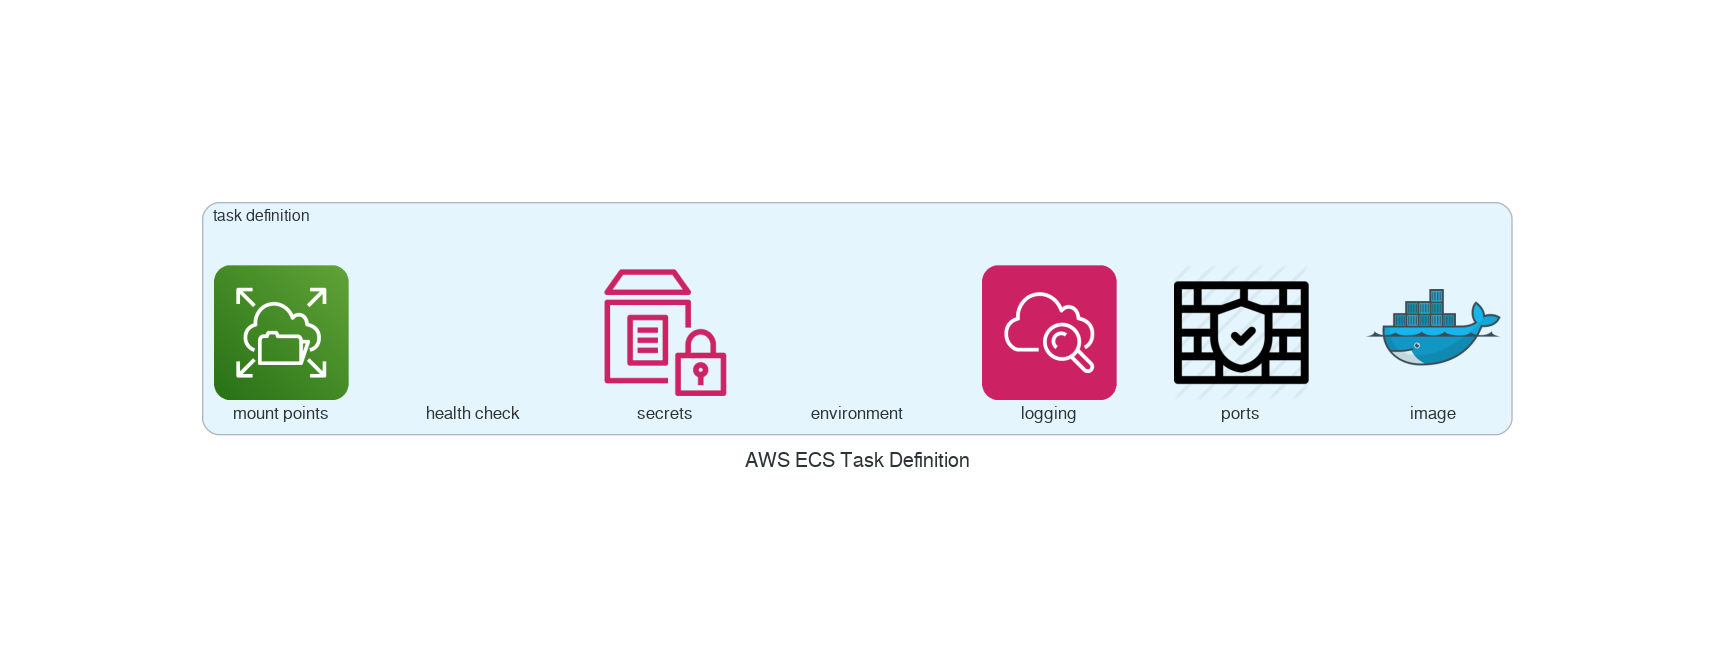
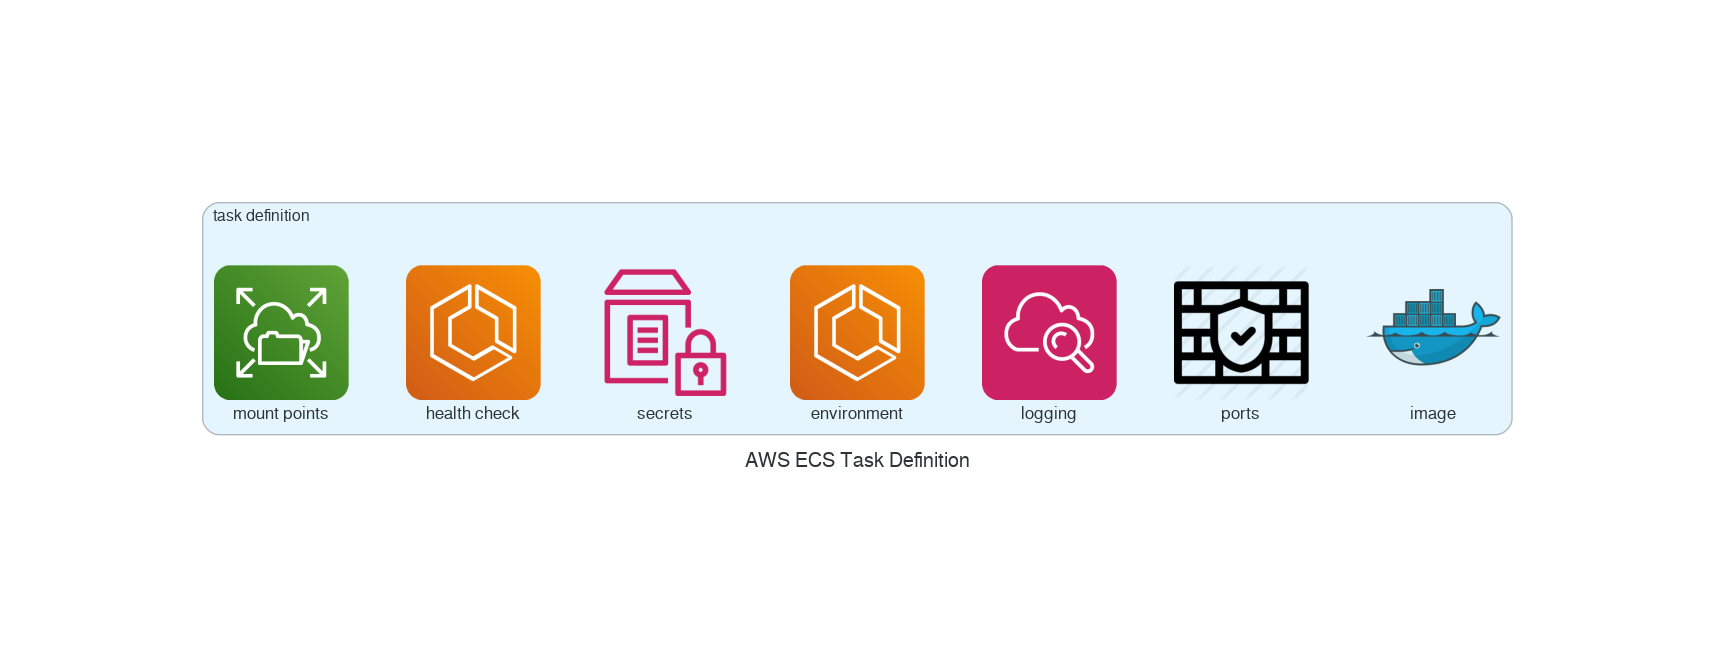
Added diagram

Changed region(s): [[0.2163, 0.3875, 0.3399, 0.5961], [0.4636, 0.3875, 0.5563, 0.5961]]

diff --git a/diagram.py b/diagram.py
@@ -3,7 +3,7 @@ from diagrams.onprem.container import Docker
 from diagrams.generic.network import Firewall
 from diagrams.aws.management import Cloudwatch, ParameterStore
 from diagrams.aws.storage import EFS
-from diagrams.generic.blank import Blank
+from diagrams.aws.compute import ECS
 
 with Diagram("AWS ECS Task Definition", show=False, direction="TB"):
 
@@ -11,7 +11,7 @@ with Diagram("AWS ECS Task Definition", show=False, direction="TB"):
         image = Docker("image")
         ports = Firewall("ports")
         logging = Cloudwatch("logging")
-        environment = Blank("environment")
+        environment = ECS("environment")
         secrets = ParameterStore("secrets")
-        health_check = Blank("health check")
+        health_check = ECS("health check")
         mount_points = EFS("mount points")
